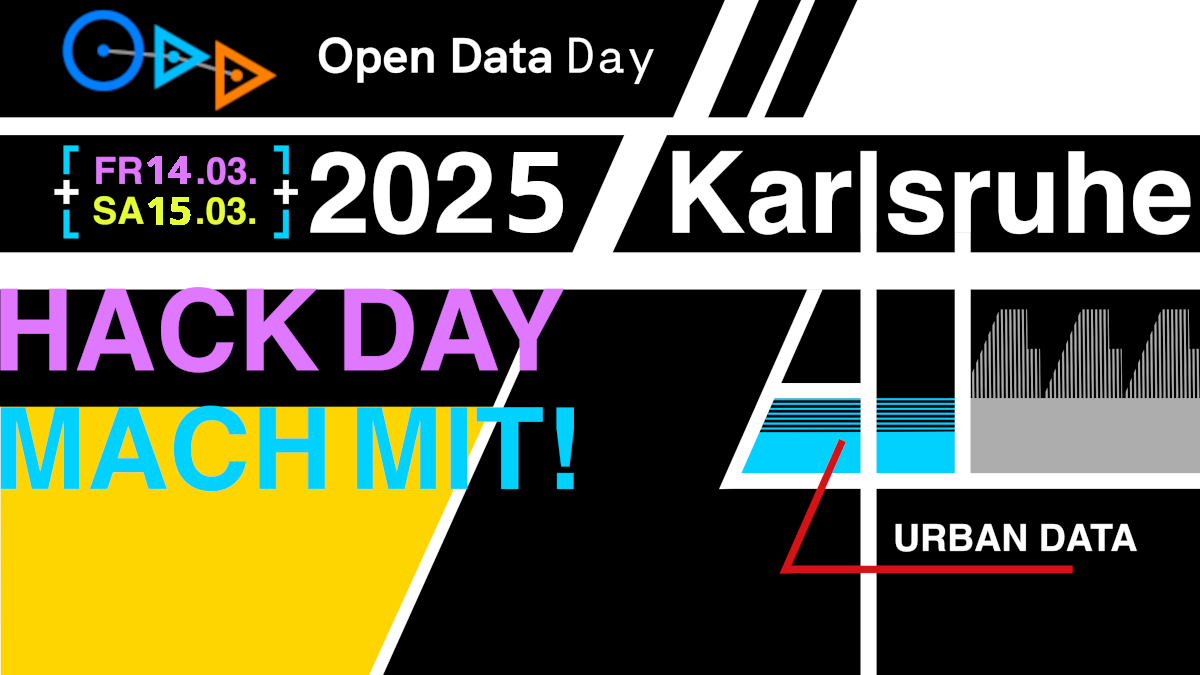
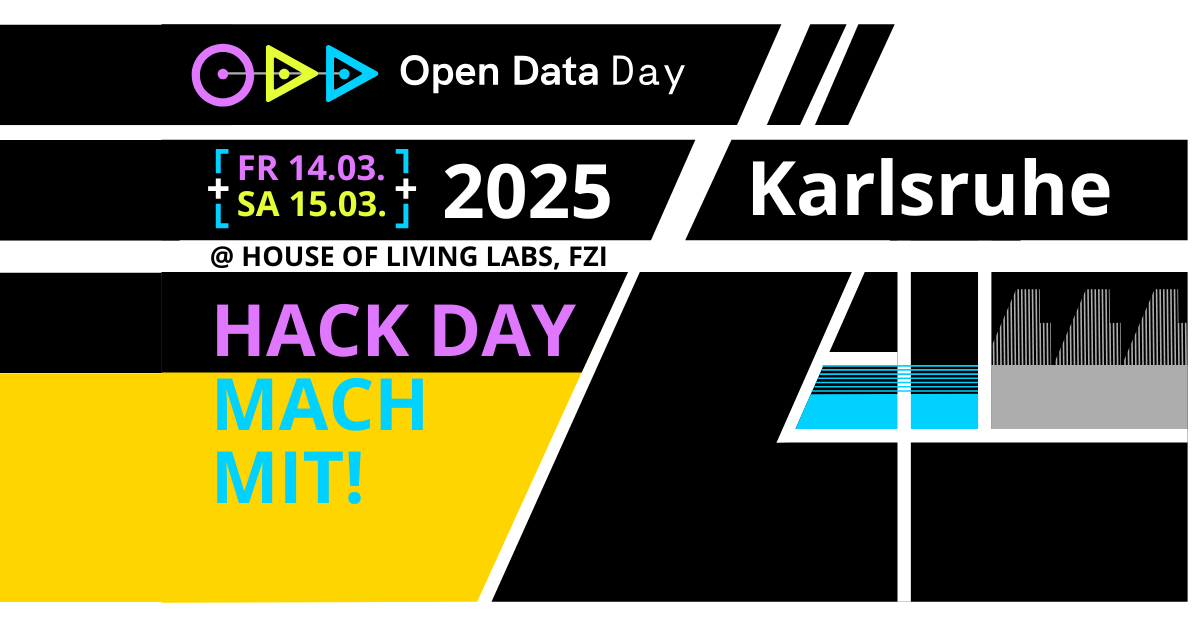
update odd25

diff --git a/content/en/projekte/2025-03-14-odd25.md b/content/en/projekte/2025-03-14-odd25.md
@@ -1,0 +1,75 @@
+---
+layout: project
+lab: OK Lab Karlsruhe #needed for Aggregation on Lab-Page
+imgname: karlsruhe/odd2025/odd25.png
+title: Open Data HackDays am 14. und 15.3.2025
+showcase: 1
+status: Laufend
+
+collaborators:
+  - name: Andreas Kugel
+  - name: Alexander Melde
+  - name: Martin Weis
+  - name: Michael Riedmüller
+  - name: Josef Attmann
+
+
+
+links:
+  - name: International Open Data Day
+    url: https://opendataday.org
+
+
+
+aliases:
+    - /projekte/odd/
+
+---
+
+The *Open Data Day* at the beginning of March is an annual event to raise international awareness of the importance of open data.
+
+Around this day of action, local groups around the world organize self-hosted events – including in Karlsruhe. The general global theme this year is *Open Data to Tackle the Polycrisis*.
+
+Again this year, in collaboration with partners from Karlsruhe, we can offer a more extensive program than before, focusing on opportunities to participate: the HackDays **Open Data for Urban Future**.
+
+Is this only for *hackers* or IT professionals? **Not at all!** We follow the [Wikipedia definition](https://de.wikipedia.org/wiki/Hack) and aim to use creative methods to improve things that do not yet work well. This requires good ideas not only from the programming and data community.
+
+Regardless of age or technical skills – *Open Data Day* is open to everyone, whether a beginner or an expert.
+
+You can find impressions from the 2024 event [here on YouTube](https://youtu.be/289RJwps2Sk).
+
+## Timetable
+
+ * Friday 5:00 pm - 9:00 pm
+ * Saturday 10:00 am - 8:00 pm
+
+The program for 2025 is still being prepared. Check out [last year's event](/projekte/odd24/) to see what was offered. Stay tuned!
+
+## Follow-up Events
+This year, there is an opportunity to continue working on the HackDays projects at the ZKM-Useum under the title "DatenCafe." The following dates are scheduled:
+
+  *  Saturday, April 5, 2025, 1:00 PM - 4:00 PM
+  *  Saturday, May 3, 2025, 1:00 PM - 4:00 PM
+  *  Sunday, May 25, 2025, 1:00 PM - 4:00 PM
+
+Free entry (with registration), bring your laptops.
+
+
+## Registration
+
+**Please register.** [Click here](https://pretix.eu/digital-codes/oddka25/) to get your free tickets.
+
+Please bring your laptop. (We also have a few devices available – please let us know if you need one.)
+
+**Please note** Event language will be German.
+
+## Partners
+[OK Lab Karlsruhe](https://ok-lab-karlsruhe.de/),
+[City of  Karlsruhe](https://www.karlsruhe.de/),
+[karlsruhe.digital](https://karlsruhe.digital/), 
+[Karlsruhe University of Applied Sciences](https://www.h-ka.de/),
+[FZI | Research Center for Informatics](https://www.fzi.de/),
+[CycleSense](https://cyclesense.de/), 
+[EDIH AICS](https://digitalhub-ai.de/de/allgemein-2), 
+[Studio Blaupause](https://blaupause.studio/)
+

diff --git a/content/de/projekte/2025-03-14-odd25.md b/content/de/projekte/2025-03-14-odd25.md
@@ -39,7 +39,12 @@ Unabhängig vom Alter und technischen Fähigkeiten – beim *Open Data Day* kann
 
 Eindrücke von der Veranstaltung 2024 gibt es [hier auf Youtube](https://youtu.be/289RJwps2Sk)
 
-Das Programm für 2025 ist noch in Vorbereitung. Schaut doch mal beim [letzten Jahr](/projekte/odd24/), was es so gab. Und schaut wieder vorbei!
+## Zeiten
+
+ * Freitag 17:00 - 21:00 Uhr
+ * Samstag 10:00 - 20:00 Uhr
+
+Das genaue Programm für 2025 ist noch in Vorbereitung. Schaut doch mal beim [letzten Jahr](/projekte/odd24/), was es so gab. Und schaut wieder vorbei!
 
 ## Follow-up Events
 Es gibt dieses Jahr die Möglichkeit, am [ZKM-Useum](https://zkm.de/de/ausstellungen-veranstaltungen/useum) 
@@ -58,7 +63,12 @@ Eintritt frei (mit Anmeldung), Laptops mitbringen
 Bitte bringe Deinen Laptop Computer mit. (Wir haben auch ein paar Geräte vorrätig, bitte schreib uns, wenn Du eins davon benötigst)
 
 ## Partner
-OK Lab Karlsruhe, Stadt Karlsruhe,
-karlsruhe.digital, Hochschule Karlsruhe,
-FZI | Forschungszentrum Informatik,
-CycleSense, EDIH AICS, Studio Blaupause
+[OK Lab Karlsruhe](https://ok-lab-karlsruhe.de/),
+[Stadt Karlsruhe](https://www.karlsruhe.de/),
+[karlsruhe.digital](https://karlsruhe.digital/), 
+[Hochschule Karlsruhe](https://www.h-ka.de/),
+[FZI | Forschungszentrum Informatik](https://www.fzi.de/),
+[CycleSense](https://cyclesense.de/), 
+[EDIH AICS](https://digitalhub-ai.de/de/allgemein-2), 
+[Studio Blaupause](https://blaupause.studio/)
+
